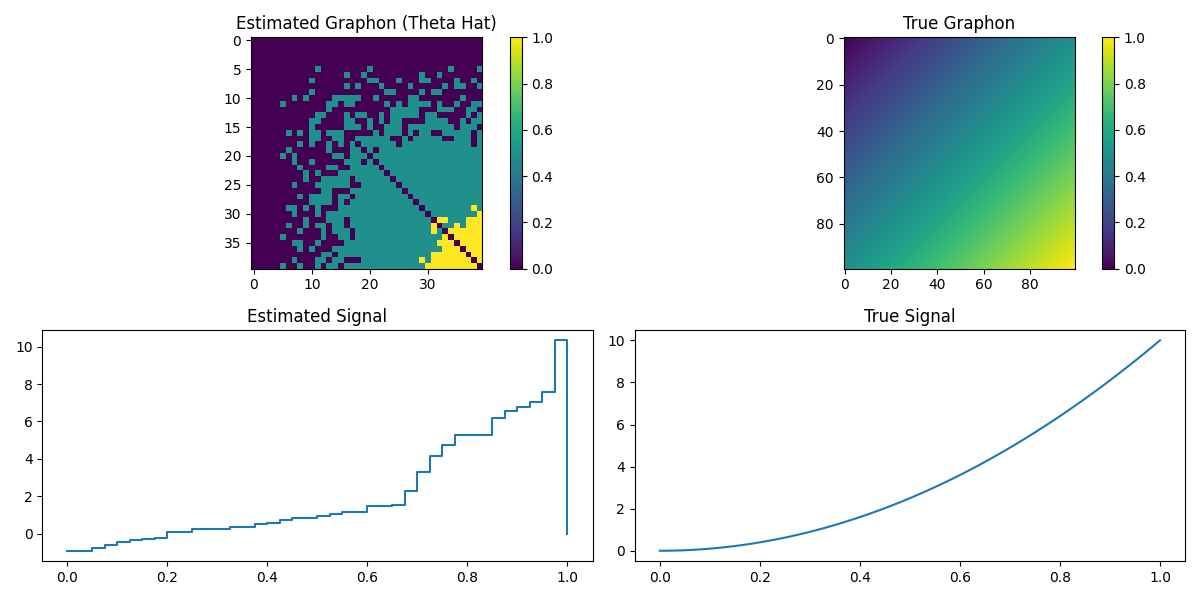
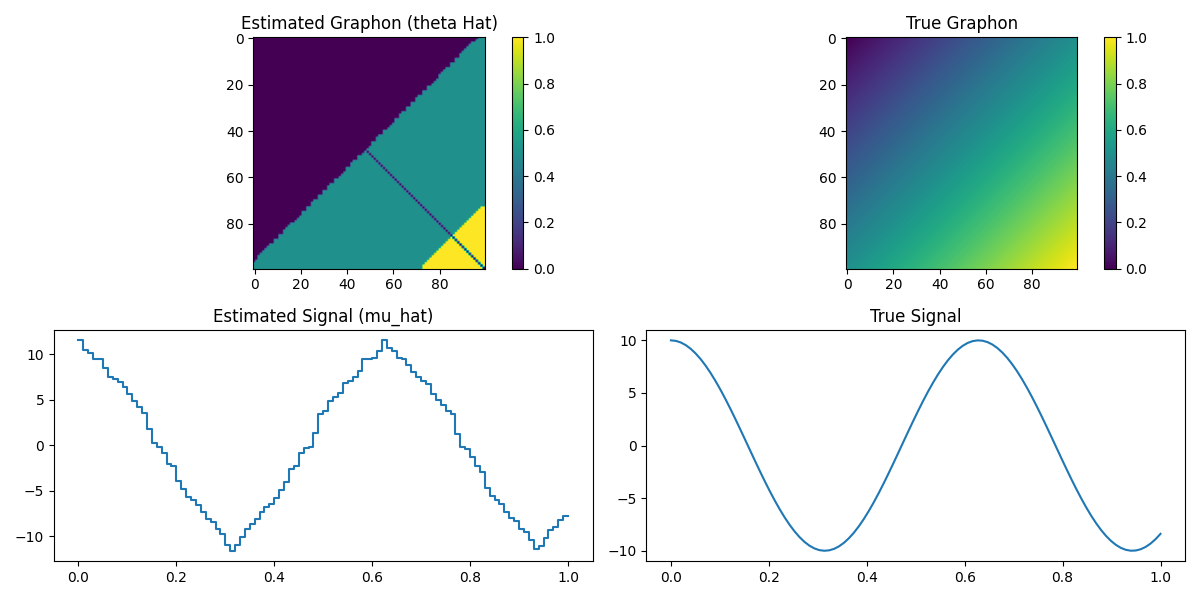
figures

diff --git a/codefiles/algorithms.py b/codefiles/algorithms.py
@@ -67,7 +67,8 @@ def align_graphon(theta_hat, true_graphon):
     
     #Apply the inverse permutation to the sorted estimate
     aligned_flat = np.zeros_like(theta_hat_flat)
-    aligned_flat[inverse_permutation] = theta_hat_flat[estimated_sort_indices]
+    aligned_flat = theta_hat_flat[estimated_sort_indices]
+    aligned_flat = aligned_flat[inverse_permutation]
     
     #Reconstruct the aligned graphon matrix
     aligned_graphon = np.zeros_like(theta_hat)
@@ -95,7 +96,8 @@ def align_signal(mu_hat, true_signal):
     
     #Apply the inverse permutation to the sorted estimate
     aligned = np.zeros_like(mu_hat)
-    aligned[inverse_permutation] = mu_hat[estimated_sort_indices]
+    aligned = mu_hat[estimated_sort_indices]
+    aligned = aligned[inverse_permutation]
 
     
     return aligned

diff --git a/codefiles/utility.py b/codefiles/utility.py
@@ -46,7 +46,7 @@ def visualize(graphon, signal, est_graphon, est_signal, n_points=100):
     t = np.linspace(0,1,n_points)
     f = signal(t)
     tstep = np.linspace(0,1,len(est_signal)+1)
-    est_signal=np.append(est_signal,[0])
+    est_signal=np.append(est_signal,[est_signal[-1]])
 
     plt.figure(figsize=(12, 6))
 
@@ -111,7 +111,6 @@ def blockify_graphon(graphon, n):
     u, v = np.meshgrid(x, y)
     graphon_matrix = graphon(u,v)
     return graphon_matrix
-
     
 def blockify_signal(signal,n):
     '''

diff --git a/main.py b/main.py
@@ -1,9 +1,9 @@
 from codefiles import *
 
-n=40
+n=100
 
-f = lambda x : np.cos(10*x)
-w = lambda x,y : (x+y)/2
+f = lambda x : 10*x*x
+w = lambda x,y : np.cos(10*(x+y))
 
 A,X = sample_from_graphon_signal(w,f,n)
 
